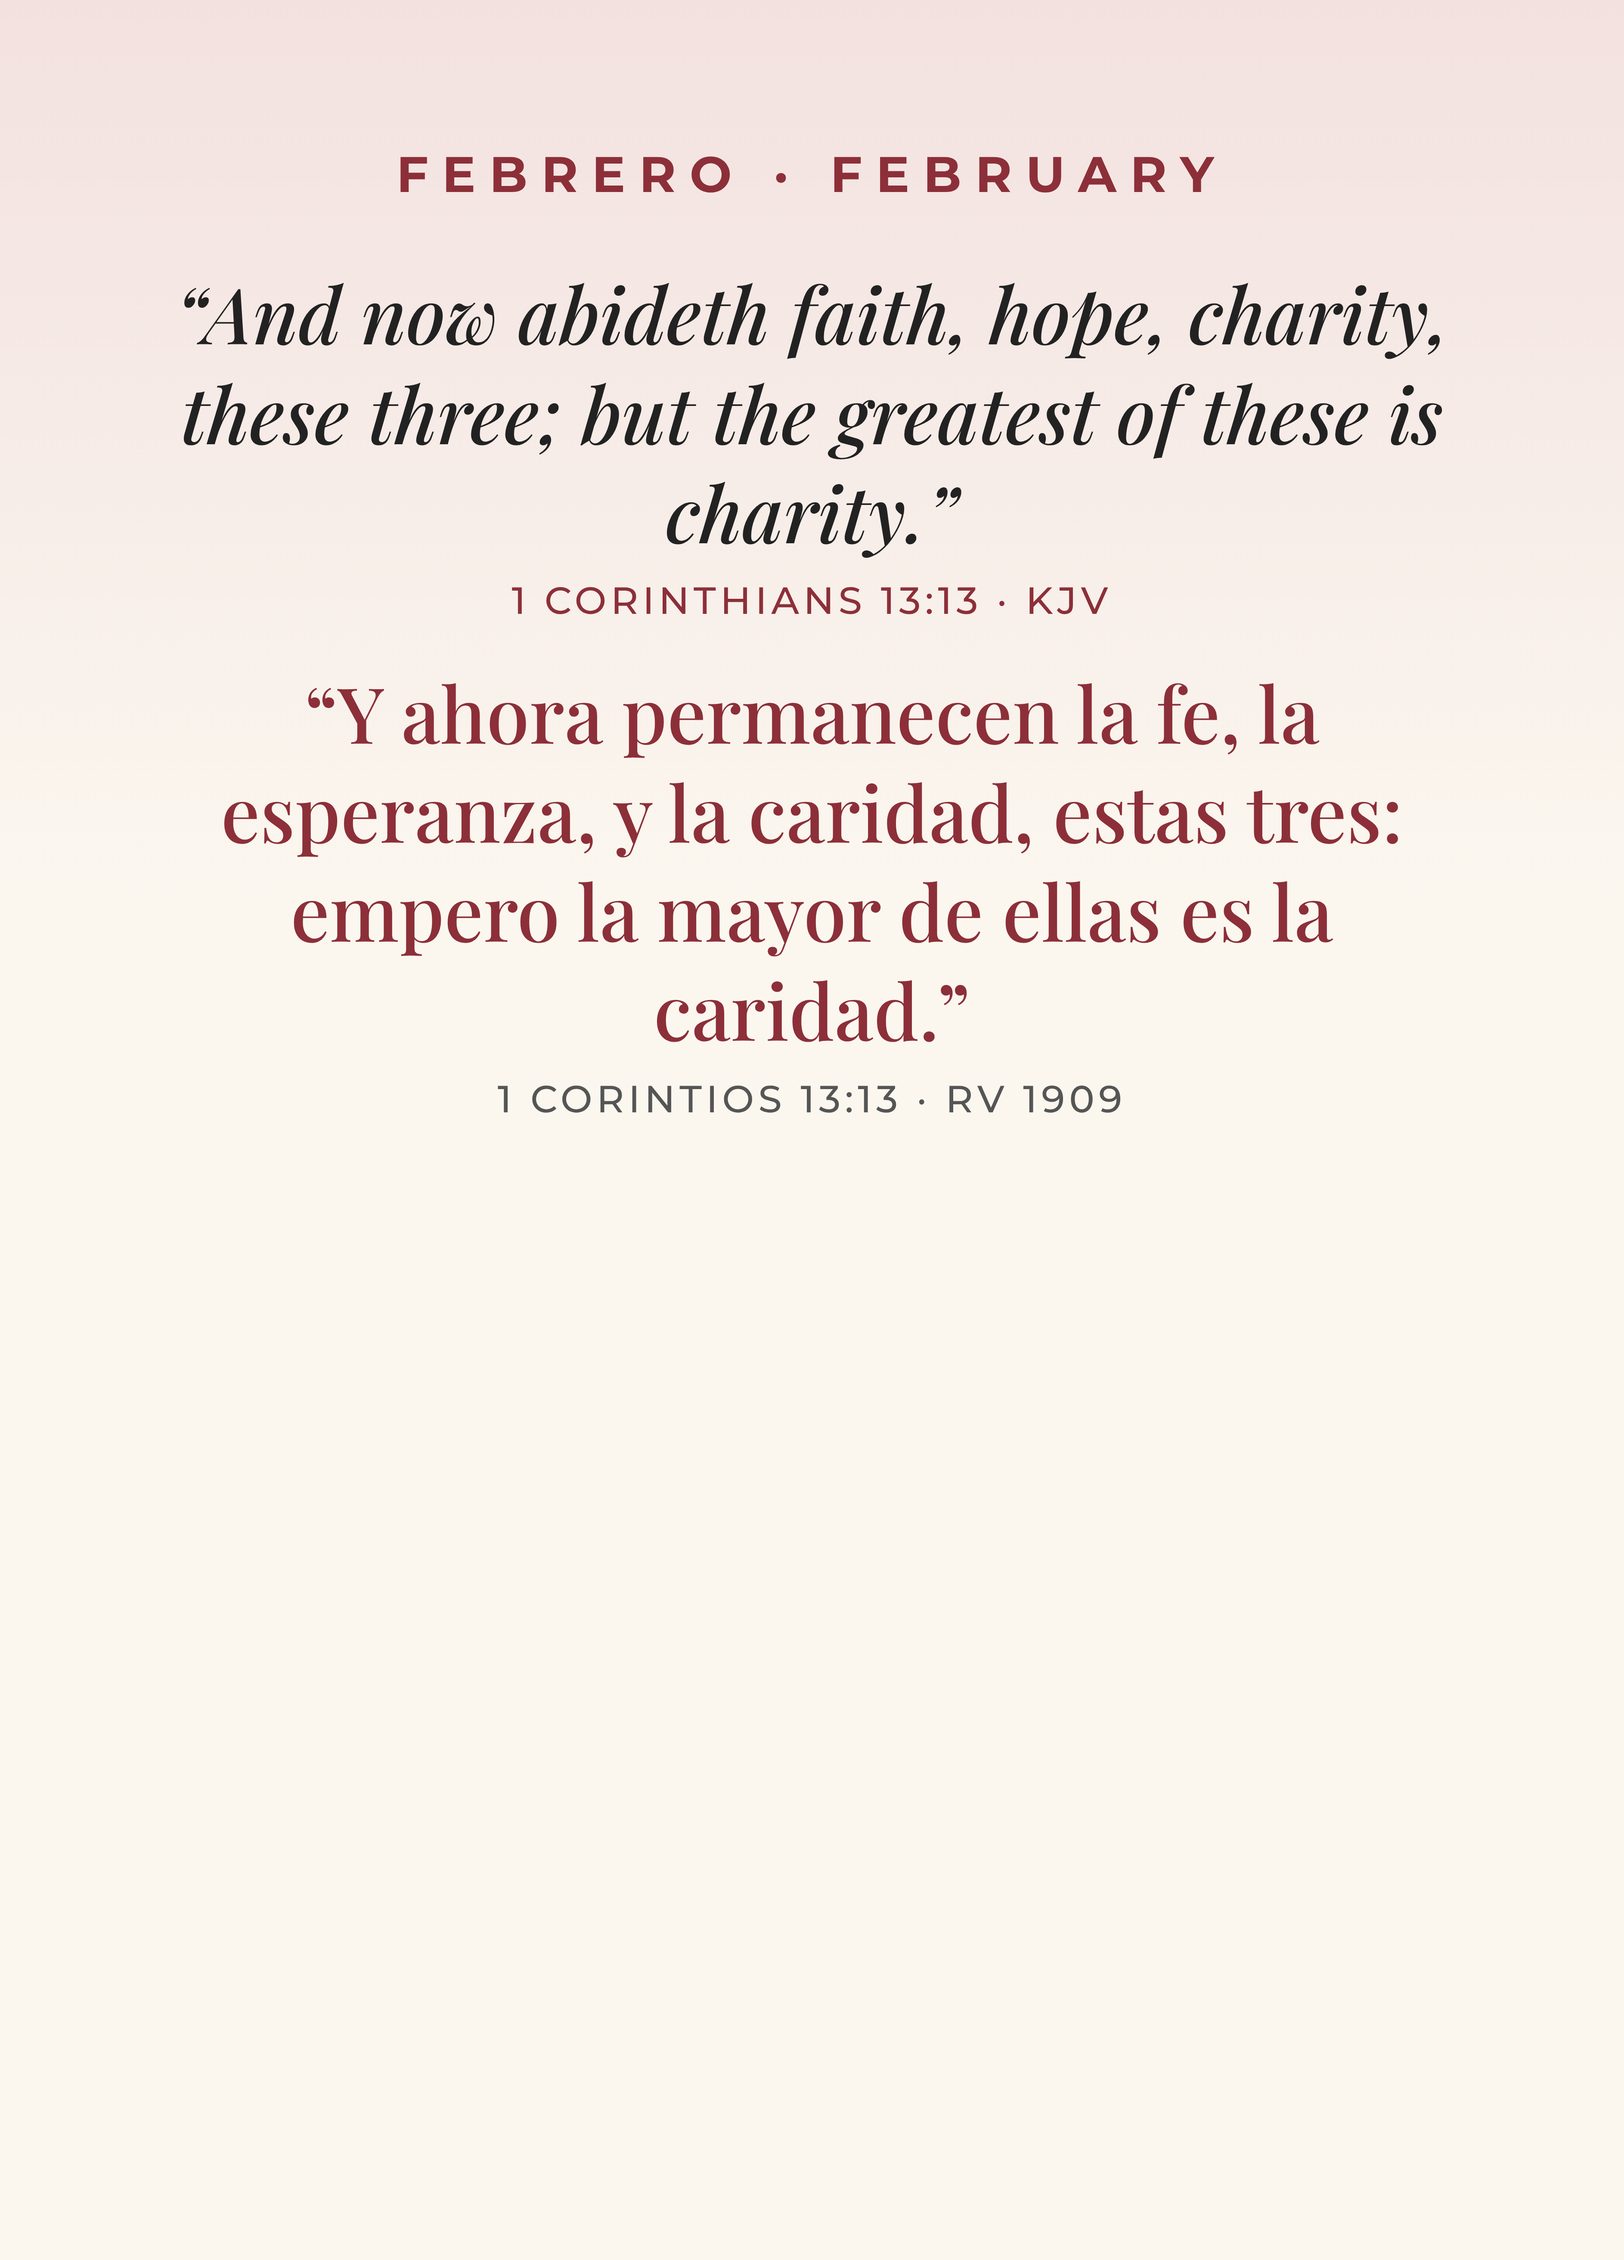
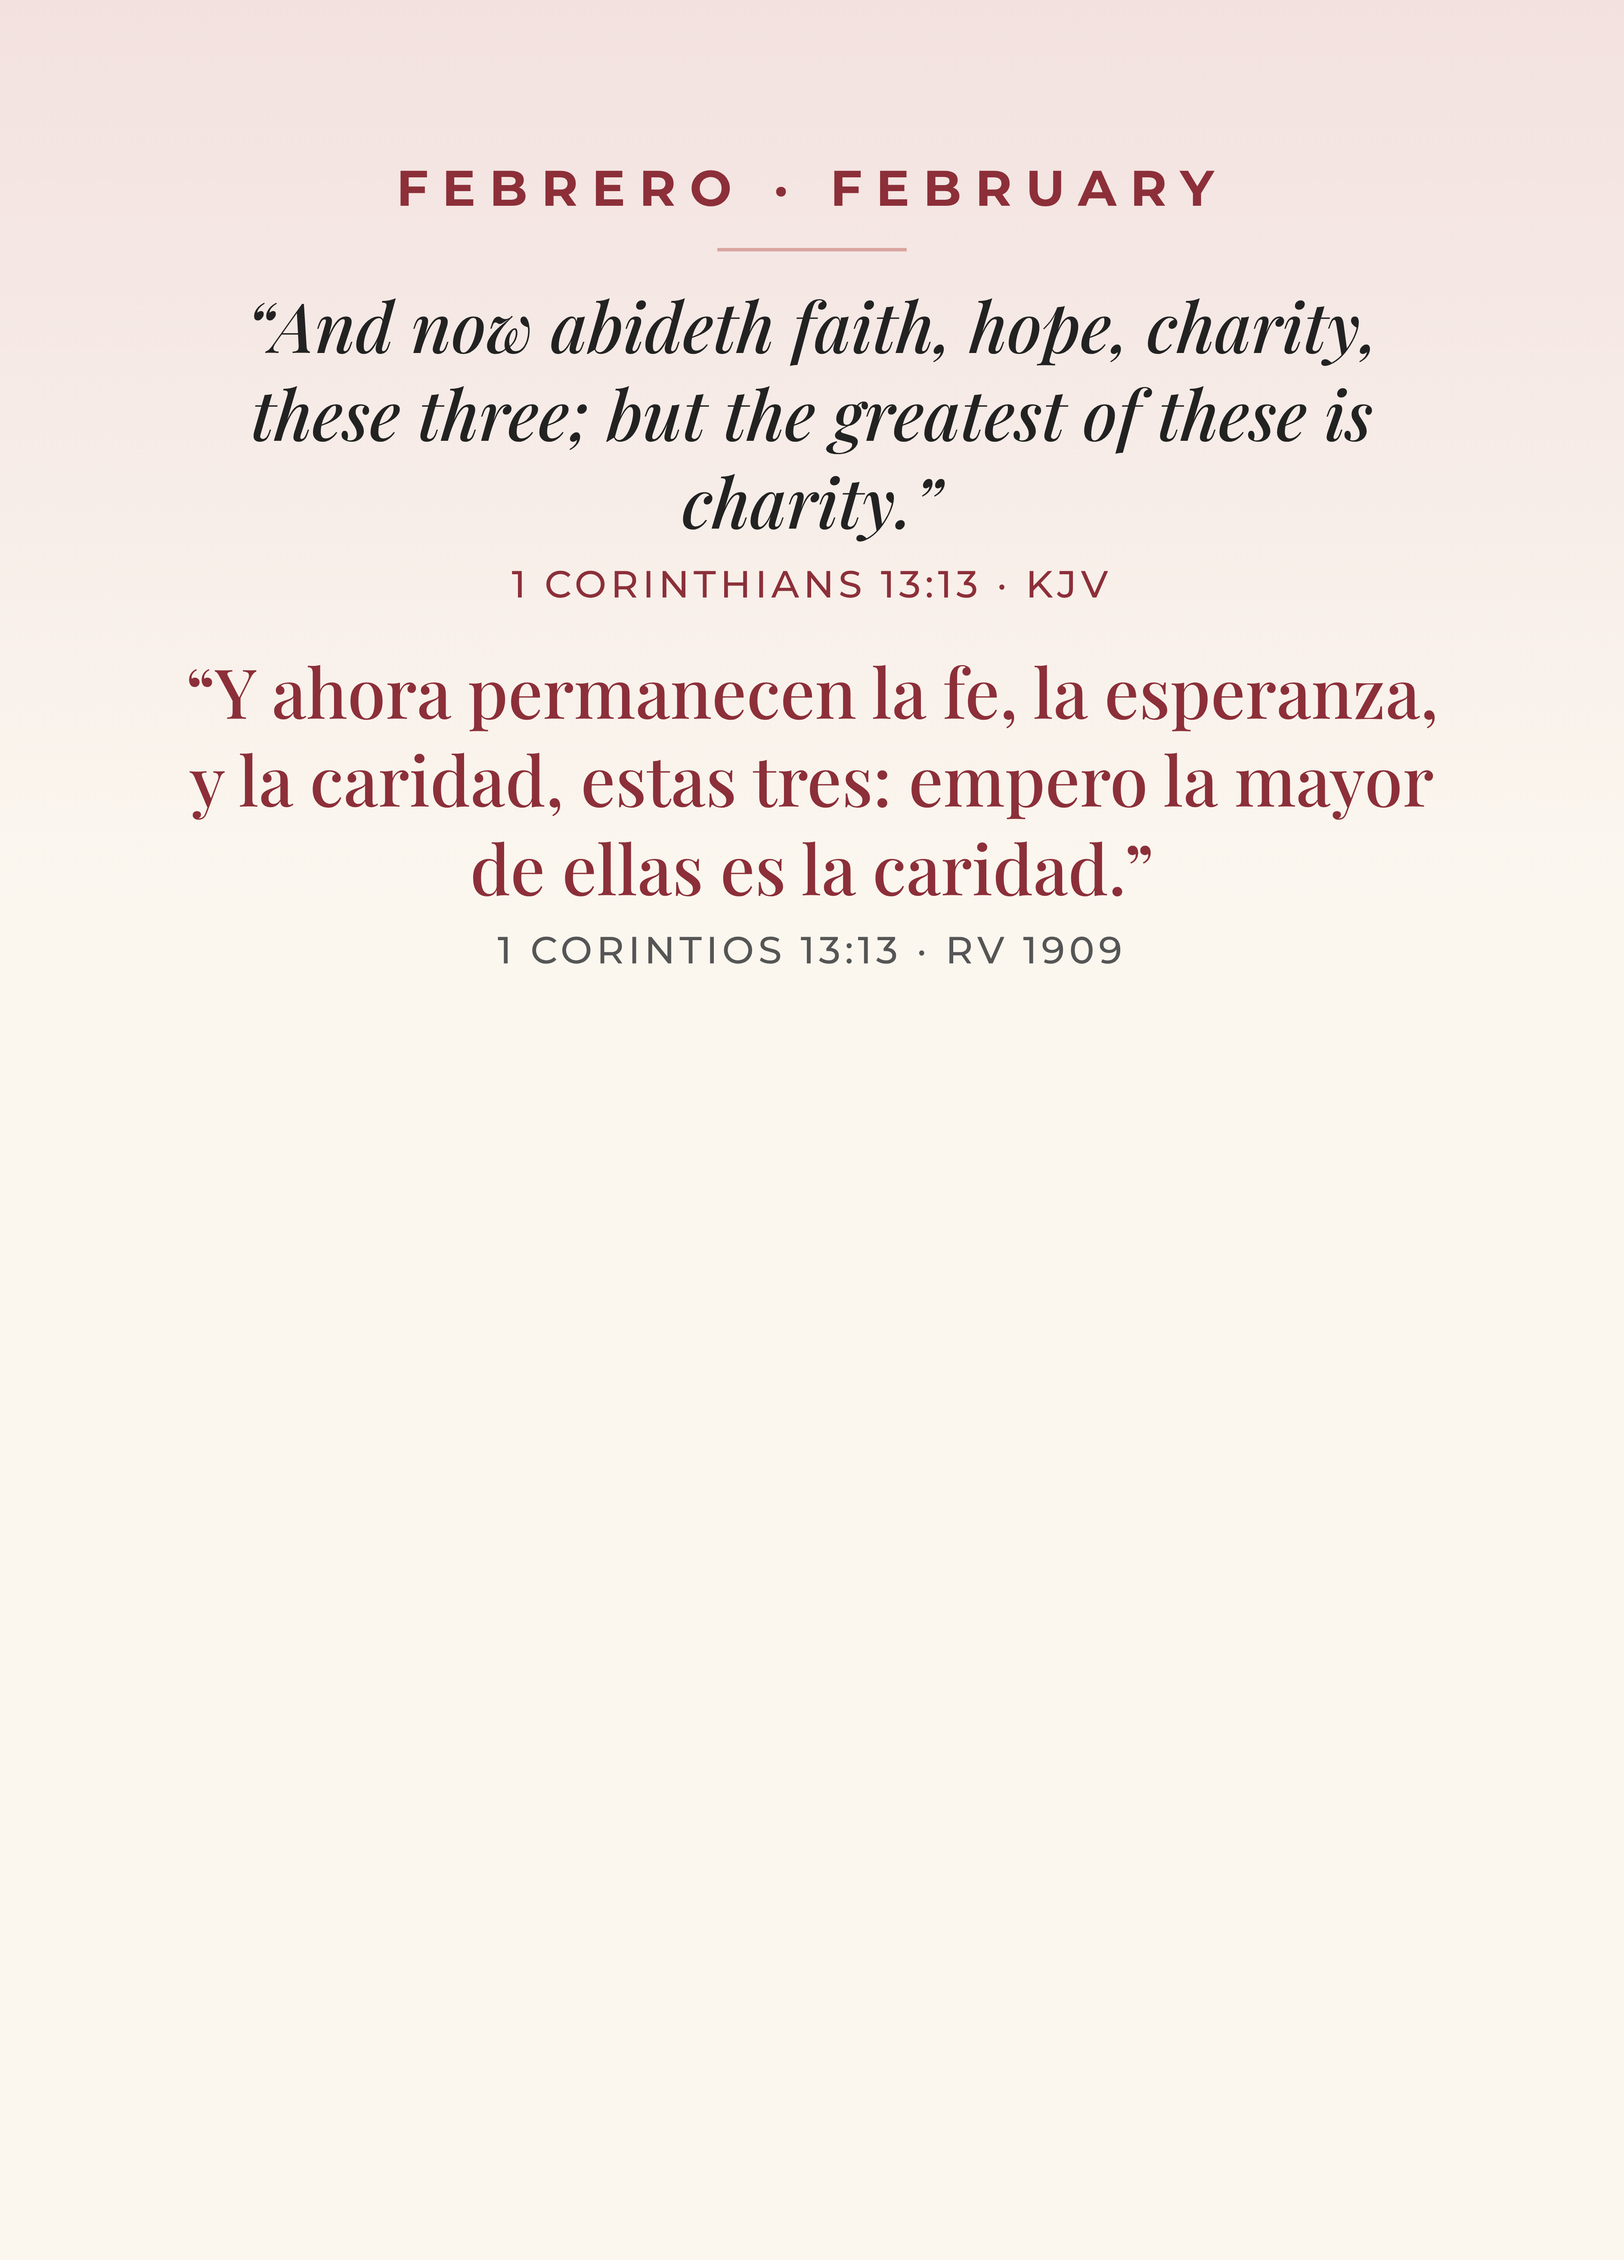
Batch 4: calendar text clears date grid; towel hem-safe margins
Claude-Session: https://claude.ai/code/session_016J2nU7A2YAX41gT6f3cs1D

diff --git a/docs/unity-keepsakes/design-scripts/batch4/designs.py b/docs/unity-keepsakes/design-scripts/batch4/designs.py
@@ -24,9 +24,9 @@ M=[('january','Enero','January','#1f3a5f','#c9a227','They are new every morning:
  ('november','Noviembre','November','#6e3b1f','#e3b98a','In every thing give thanks: for this is the will of God in Christ Jesus concerning you.','Dad gracias en todo; porque esta es la voluntad de Dios para con vosotros en Cristo Jesús.','1 Thessalonians 5:18','1 Tesalonicenses 5:18'),
  ('december','Diciembre','December','#14532d','#c9a227','For unto you is born this day in the city of David a Saviour, which is Christ the Lord.','Que os ha nacido hoy, en la ciudad de David, un Salvador, que es Cristo el Señor.','Luke 2:11','Lucas 2:11')]
 for key,es,en,c,soft,kjv,rv,ren,res in M:
-    n=len(kjv)+len(rv); fs=120 if n<130 else 104 if n<190 else 90
+    n=len(kjv)+len(rv); fs=108 if n<130 else 92 if n<190 else 80
     page(f'cal_{key}',CW,CH,f'''<div style="position:absolute;inset:0;background:linear-gradient(180deg,{soft}55 0%,#fbf7ef 40%,#fbf7ef 100%)"></div>
-<div style="position:absolute;left:10%;right:10%;top:7.5%;height:41%;display:flex;flex-direction:column;align-items:center;justify-content:center;text-align:center">
+<div style="position:absolute;left:10%;right:10%;top:6%;height:38%;display:flex;flex-direction:column;align-items:center;justify-content:center;text-align:center">
 <div style="font-family:Montserrat;font-weight:700;letter-spacing:16px;font-size:58px;color:{c}">{es.upper()} · {en.upper()}</div>
 <div style="width:220px;height:4px;background:{soft};margin:34px 0"></div>
 <div style="font-family:'Playfair Display';font-style:italic;font-size:{fs}px;line-height:1.28;color:#222">“{kjv}”</div>
@@ -84,15 +84,15 @@ TW,TH=5693,9154
 def towel(key,title_es,title_en,flag,ingr,steps,c):
     li=''.join(f'<div style="margin:34px 0"><span style="font-family:\'Playfair Display\';font-weight:700">{a}</span><br><span style="font-family:\'Playfair Display\';font-style:italic;color:#666;font-size:.85em">{b}</span></div>' for a,b in ingr)
     st=''.join(f'<div style="margin:44px 0;display:flex;gap:60px;align-items:flex-start"><div style="font-family:\'Great Vibes\';font-size:300px;line-height:.75;color:{c};min-width:150px">{i+1}</div><div><span style="font-family:\'Playfair Display\'">{a}</span><br><span style="font-family:\'Playfair Display\';font-style:italic;color:#666;font-size:.85em">{b}</span></div></div>' for i,(a,b) in enumerate(steps))
-    H2=lambda t:f'<div style="font-family:Montserrat;font-weight:800;letter-spacing:18px;font-size:120px;color:{c};text-align:center">{t}</div>'
-    page(f'towel_{key}',TW,TH,f'''<div style="position:absolute;inset:0;background:#fbf7ef"></div><div style="position:absolute;inset:140px;border:10px solid {c};border-radius:40px"></div>
-<div style="position:absolute;left:330px;right:330px;top:330px;bottom:330px;display:flex;flex-direction:column;justify-content:space-between;align-items:stretch">
-<div style="text-align:center"><div style="font-family:Montserrat;font-weight:700;letter-spacing:34px;font-size:150px;color:{c}">LA RECETA DE ABUELA</div>
-<div style="font-family:'Great Vibes';font-size:1000px;line-height:1.1;color:#2b2b2b">{title_es}</div>
-<div style="font-family:'Playfair Display';font-style:italic;font-size:210px;color:#666">{title_en} · {flag}</div></div>
+    H2=lambda t:f'<div style="font-family:Montserrat;font-weight:800;letter-spacing:14px;font-size:110px;color:{c};text-align:center">{t}</div>'
+    page(f'towel_{key}',TW,TH,f'''<div style="position:absolute;inset:0;background:#fbf7ef"></div><div style="position:absolute;top:260px;bottom:260px;left:520px;right:520px;border:10px solid {c};border-radius:40px"></div>
+<div style="position:absolute;left:760px;right:760px;top:470px;bottom:470px;display:flex;flex-direction:column;justify-content:space-between;align-items:stretch">
+<div style="text-align:center"><div style="font-family:Montserrat;font-weight:700;letter-spacing:28px;font-size:136px;color:{c}">LA RECETA DE ABUELA</div>
+<div style="font-family:'Great Vibes';font-size:880px;line-height:1.1;color:#2b2b2b">{title_es}</div>
+<div style="font-family:'Playfair Display';font-style:italic;font-size:180px;color:#666">{title_en} · {flag}</div></div>
 <div style="width:700px;height:10px;background:{c};align-self:center"></div>
-<div>{H2('INGREDIENTES · INGREDIENTS')}<div style="font-size:178px;line-height:1.18;text-align:center;margin-top:30px">{li}</div></div>
-<div>{H2('PREPARACIÓN · DIRECTIONS')}<div style="font-size:160px;line-height:1.2;margin-top:30px">{st}</div></div>
+<div>{H2('INGREDIENTES · INGREDIENTS')}<div style="font-size:160px;line-height:1.18;text-align:center;margin-top:30px">{li}</div></div>
+<div>{H2('PREPARACIÓN · DIRECTIONS')}<div style="font-size:142px;line-height:1.2;margin-top:30px">{st}</div></div>
 <div style="text-align:center;font-family:'Great Vibes';font-size:360px;line-height:1;color:{c}">¡Buen provecho!</div></div>''',full=True)
 towel('coquito','Coquito','Coconut Eggnog','Puerto Rico',
  [('1 lata de crema de coco (15 oz)','1 can cream of coconut (15 oz)'),('1 lata de leche evaporada (12 oz)','1 can evaporated milk (12 oz)'),('1 lata de leche condensada (14 oz)','1 can sweetened condensed milk (14 oz)'),('1 taza de ron blanco (opcional)','1 cup white rum (optional)'),('1 cdta. de vainilla · ½ cdta. de canela','1 tsp vanilla · ½ tsp cinnamon'),('Una pizca de nuez moscada','A pinch of nutmeg')],
